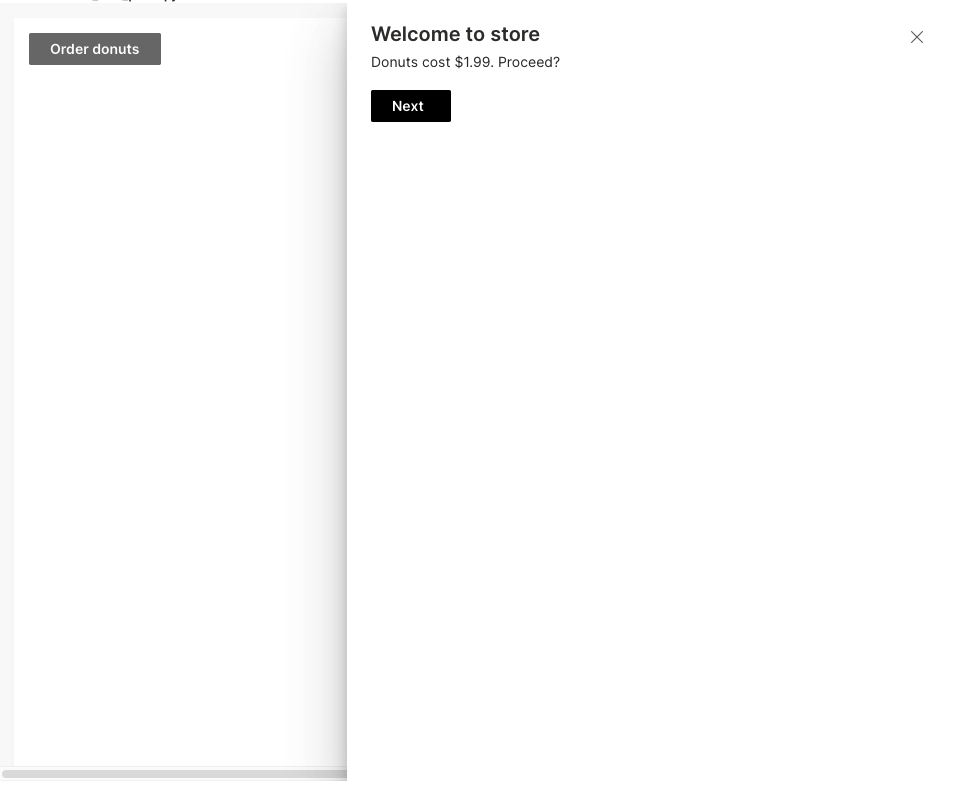
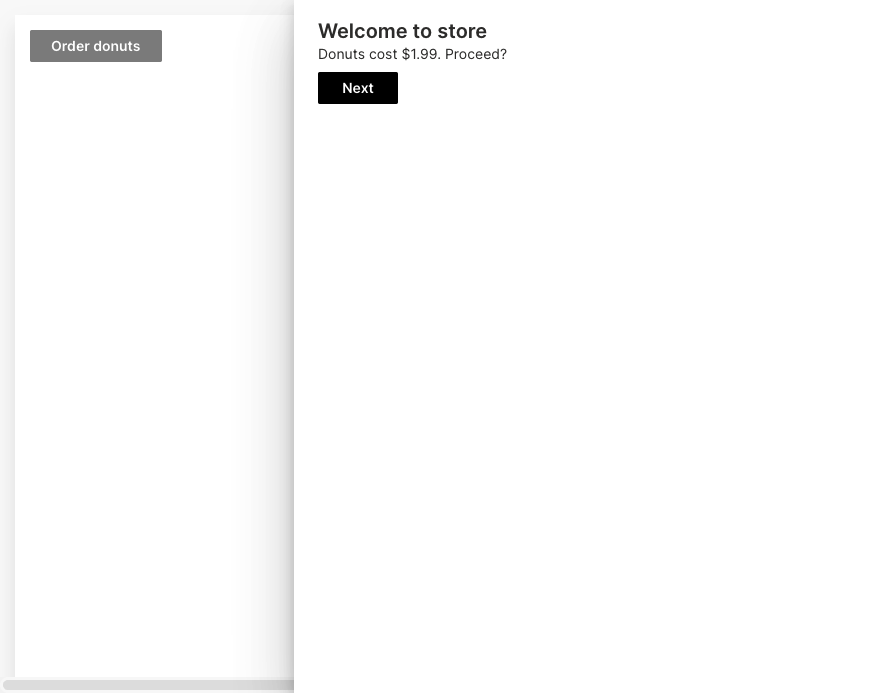
feat: Add closable prop to side panel (#1315)

Changed region(s): [[0.0, 0.0303, 0.604, 1.0], [0.0302, 0.0303, 0.1812, 0.0909]]

diff --git a/ui/src/side_panel.tsx b/ui/src/side_panel.tsx
@@ -34,24 +34,26 @@ export interface SidePanel {
   width?: S
   /** An identifying name for this component. */
   name?: Id
-  /** The events to capture on this side panel. */
+  /** The events to capture on this side panel. One of 'dismissed'. */
   events?: S[]
   /** True to prevent closing when clicking or tapping outside the side panel. Prevents interacting with the page behind the side panel. Defaults to False. */
   blocking?: B
+  /** True if the side panel should have a closing 'X' button at the top right corner. */
+  closable?: B
 }
 
 export default bond(() => {
   const
     onDismiss = () => {
       const
-        { blocking, name, events } = sidePanelB() || {},
+        { name, events } = sidePanelB() || {},
         ev = events?.find(e => e === 'dismissed')
 
-      if (!blocking && ev && name) wave.emit(name, ev, true)
+      if (ev && name) wave.emit(name, ev, true)
       sidePanelB(null)
     },
     render = () => {
-      const { title, width = '600px', items = [], blocking = false } = sidePanelB() || {}
+      const { title, width = '600px', items = [], closable = false, blocking = false } = sidePanelB() || {}
       return (
         <Fluent.Panel
           isOpen={!!sidePanelB()}
@@ -59,6 +61,7 @@ export default bond(() => {
           type={Fluent.PanelType.custom}
           customWidth={width}
           onDismiss={onDismiss}
+          hasCloseButton={closable}
           overlayProps={blocking ? { style: { cursor: 'default' } } : undefined}
           isBlocking
           isLightDismiss={!blocking}>

diff --git a/ui/src/side_panel.test.tsx b/ui/src/side_panel.test.tsx
@@ -42,19 +42,26 @@ describe('SidePanel.tsx', () => {
     await waitFor(() => expect(queryByRole('dialog')).not.toBeInTheDocument())
   })
 
+  it('should not render X closing button', () => {
+    const { container } = render(<SidePanel />)
+    expect(container.parentElement?.querySelector('.ms-Panel-closeButton')).not.toBeInTheDocument()
+  })
+
   it('should render X closing button when specified', () => {
+    sidePanelB({ ...sidePanelProps, closable: true })
     const { container } = render(<SidePanel />)
     expect(container.parentElement?.querySelector('.ms-Panel-closeButton')).toBeInTheDocument()
   })
 
   it('should close side panel when clicking on X', async () => {
+    sidePanelB({ ...sidePanelProps, closable: true })
     const { container, queryByRole } = render(<SidePanel />)
     fireEvent.click(container.parentElement?.querySelector('.ms-Panel-closeButton') as HTMLDivElement)
     await waitFor(() => expect(queryByRole('dialog')).not.toBeInTheDocument())
   })
 
   it('should fire event if specified when clicking on X', () => {
-    sidePanelB({ ...sidePanelProps, events: ['dismissed'] })
+    sidePanelB({ ...sidePanelProps, closable: true, events: ['dismissed'] })
     const { container } = render(<SidePanel />)
     fireEvent.click(container.parentElement?.querySelector('.ms-Panel-closeButton') as HTMLDivElement)
     expect(emitMock).toHaveBeenCalled()

diff --git a/ui/src/dialog.tsx b/ui/src/dialog.tsx
@@ -40,15 +40,15 @@ export interface Dialog {
   primary?: B
   /** An identifying name for this component. */
   name?: Id
-  /** The events to capture on this dialog. */
+  /** The events to capture on this dialog. One of 'dismissed'. */
   events?: S[]
 }
 
 export default bond(() => {
   const
     onDismiss = () => {
-      const { closable, blocking, name, events } = dialogB() || {}
-      if ((closable || !blocking) && name) {
+      const { name, events } = dialogB() || {}
+      if (name) {
         events?.forEach(e => {
           if (e === 'dismissed') wave.emit(name, e, true)
         })

diff --git a/py/h2o_wave/types.py b/py/h2o_wave/types.py
@@ -8871,7 +8871,7 @@ class Dialog:
         self.name = name
         """An identifying name for this component."""
         self.events = events
-        """The events to capture on this dialog."""
+        """The events to capture on this dialog. One of 'dismissed'."""
 
     def dump(self) -> Dict:
         """Returns the contents of this object as a dict."""
@@ -8946,6 +8946,7 @@ class SidePanel:
             name: Optional[str] = None,
             events: Optional[List[str]] = None,
             blocking: Optional[bool] = None,
+            closable: Optional[bool] = None,
     ):
         _guard_scalar('SidePanel.title', title, (str,), False, False, False)
         _guard_vector('SidePanel.items', items, (Component,), False, False, False)
@@ -8953,6 +8954,7 @@ class SidePanel:
         _guard_scalar('SidePanel.name', name, (str,), True, True, False)
         _guard_vector('SidePanel.events', events, (str,), False, True, False)
         _guard_scalar('SidePanel.blocking', blocking, (bool,), False, True, False)
+        _guard_scalar('SidePanel.closable', closable, (bool,), False, True, False)
         self.title = title
         """The side panel's title."""
         self.items = items
@@ -8962,9 +8964,11 @@ class SidePanel:
         self.name = name
         """An identifying name for this component."""
         self.events = events
-        """The events to capture on this side panel."""
+        """The events to capture on this side panel. One of 'dismissed'."""
         self.blocking = blocking
         """True to prevent closing when clicking or tapping outside the side panel. Prevents interacting with the page behind the side panel. Defaults to False."""
+        self.closable = closable
+        """True if the side panel should have a closing 'X' button at the top right corner."""
 
     def dump(self) -> Dict:
         """Returns the contents of this object as a dict."""
@@ -8974,6 +8978,7 @@ class SidePanel:
         _guard_scalar('SidePanel.name', self.name, (str,), True, True, False)
         _guard_vector('SidePanel.events', self.events, (str,), False, True, False)
         _guard_scalar('SidePanel.blocking', self.blocking, (bool,), False, True, False)
+        _guard_scalar('SidePanel.closable', self.closable, (bool,), False, True, False)
         return _dump(
             title=self.title,
             items=[__e.dump() for __e in self.items],
@@ -8981,6 +8986,7 @@ class SidePanel:
             name=self.name,
             events=self.events,
             blocking=self.blocking,
+            closable=self.closable,
         )
 
     @staticmethod
@@ -8998,12 +9004,15 @@ class SidePanel:
         _guard_vector('SidePanel.events', __d_events, (str,), False, True, False)
         __d_blocking: Any = __d.get('blocking')
         _guard_scalar('SidePanel.blocking', __d_blocking, (bool,), False, True, False)
+        __d_closable: Any = __d.get('closable')
+        _guard_scalar('SidePanel.closable', __d_closable, (bool,), False, True, False)
         title: str = __d_title
         items: List[Component] = [Component.load(__e) for __e in __d_items]
         width: Optional[str] = __d_width
         name: Optional[str] = __d_name
         events: Optional[List[str]] = __d_events
         blocking: Optional[bool] = __d_blocking
+        closable: Optional[bool] = __d_closable
         return SidePanel(
             title,
             items,
@@ -9011,6 +9020,7 @@ class SidePanel:
             name,
             events,
             blocking,
+            closable,
         )
 
 

diff --git a/py/h2o_wave/ui.py b/py/h2o_wave/ui.py
@@ -3138,7 +3138,7 @@ def dialog(
         blocking: True to prevent closing when clicking or tapping outside the dialog. Prevents interacting with the page behind the dialog. Defaults to False.
         primary: Dialog with large header banner, mutually exclusive with `closable` prop. Defaults to False.
         name: An identifying name for this component.
-        events: The events to capture on this dialog.
+        events: The events to capture on this dialog. One of 'dismissed'.
     Returns:
         A `h2o_wave.types.Dialog` instance.
     """
@@ -3161,6 +3161,7 @@ def side_panel(
         name: Optional[str] = None,
         events: Optional[List[str]] = None,
         blocking: Optional[bool] = None,
+        closable: Optional[bool] = None,
 ) -> SidePanel:
     """A dialog box (Dialog) is a temporary pop-up that takes focus from the page or app
     and requires people to interact with it. It’s primarily used for confirming actions,
@@ -3171,8 +3172,9 @@ def side_panel(
         items: The components displayed in this side panel.
         width: The width of the dialog, e.g. '400px'. Defaults to '600px'.
         name: An identifying name for this component.
-        events: The events to capture on this side panel.
+        events: The events to capture on this side panel. One of 'dismissed'.
         blocking: True to prevent closing when clicking or tapping outside the side panel. Prevents interacting with the page behind the side panel. Defaults to False.
+        closable: True if the side panel should have a closing 'X' button at the top right corner.
     Returns:
         A `h2o_wave.types.SidePanel` instance.
     """
@@ -3183,6 +3185,7 @@ def side_panel(
         name,
         events,
         blocking,
+        closable,
     )
 
 

diff --git a/py/examples/meta_side_panel_closable.py b/py/examples/meta_side_panel_closable.py
@@ -1,0 +1,41 @@
+# Meta / SidePanel / Closable
+# Display a #sidePanel having a close button, and detect when it's closed. #meta
+# ---
+from h2o_wave import main, app, Q, ui
+
+
+@app('/demo')
+async def serve(q: Q):
+    if not q.client.initialized:
+        # Create an empty meta_card to hold the side panel
+        q.page['meta'] = ui.meta_card(box='')
+        # Display a button to show the side panel
+        q.page['example'] = ui.form_card(box='1 1 11 10', items=[
+            ui.button(name='show_side_panel', label='Open side panel', primary=True)
+        ])
+        q.client.initialized = True
+
+    # Was the show_side_panel button clicked?
+    if q.args.show_side_panel:
+        # Create a side panel with a close button
+        q.page['meta'].side_panel = ui.side_panel(
+            title='Hello!',
+            name="my_side_panel",
+            items=[
+                ui.text('Click the X button to close this side panel.')
+            ],
+            # Enable a close button (displayed at the top-right of the side panel)
+            closable=True,
+            # Get notified when the side panel is dismissed.
+            events=['dismissed'],
+        )
+
+    # Did we get events from the side panel?
+    if q.events.my_side_panel:
+        # Was the side panel dismissed?
+        if q.events.my_sidepanel.dismissed:
+            # Delete the side panel
+            q.page['meta'].side_panel = None
+
+    await q.page.save()
+    

diff --git a/py/examples/meta_dialog_closable.py b/py/examples/meta_dialog_closable.py
@@ -9,14 +9,14 @@ async def serve(q: Q):
     if not q.client.initialized:
         # Create an empty meta_card to hold the dialog
         q.page['meta'] = ui.meta_card(box='')
-        # Display a button to launch dialog dialog
+        # Display a button to launch dialog
         q.page['example'] = ui.form_card(box='1 1 2 1', items=[
-            ui.button(name='launch_dialog', label='Launch dialog', primary=True)
+            ui.button(name='show_dialog', label='Open dialog', primary=True)
         ])
         q.client.initialized = True
 
-    # Was the launch_dialog button clicked?
-    if q.args.launch_dialog:
+    # Was the show_dialog button clicked?
+    if q.args.show_dialog:
         # Create a dialog with a close button
         q.page['meta'].dialog = ui.dialog(
             title='Hello!',

diff --git a/website/widgets/overlays/side_panel.md b/website/widgets/overlays/side_panel.md
@@ -24,12 +24,12 @@ if not q.client.initialized:
     q.page['meta'] = ui.meta_card(box='')
     # Render a button that will open the side panel.
     q.page['example'] = ui.form_card(box='1 1 2 1', items=[
-        ui.button(name='show_panel', label='Open side panel', primary=True)
+        ui.button(name='show_side_panel', label='Open side panel', primary=True)
     ])
     q.client.initialized = True
 else:
     # Handle button click and open the side panel.
-    if q.args.show_panel:
+    if q.args.show_side_panel:
         q.page['meta'].side_panel = ui.side_panel(title='Order Donuts', items=[
             ui.text('Donuts cost $1.99. Proceed?'),
             ui.buttons([
@@ -59,16 +59,18 @@ if not q.client.initialized:
     q.page['meta'] = ui.meta_card(box='')
     # Render a button that will open the side panel.
     q.page['example'] = ui.form_card(box='1 1 2 1', items=[
-        ui.button(name='show_panel', label='Order donuts', primary=True)
+        ui.button(name='show_side_panel', label='Order donuts', primary=True)
     ])
     q.client.initialized = True
 else:
     # Handle button click by opening the side panel.
-    if q.args.show_panel:
+    if q.args.show_side_panel:
         q.page['meta'].side_panel = ui.side_panel(
             title='Order Donuts',
             # Name for q.events entry.
-            name='my_panel',
+            name='my_side_panel',
+            # Enable a close button (displayed at the top-right of the side panel).
+            closable=True,
             # Get notified when the side panel is dismissed.
             events=['dismissed'],
             items=[
@@ -78,9 +80,9 @@ else:
         )
 
     # Did we get events from the side panel?
-    if q.events.my_panel:
+    if q.events.my_side_panel:
         # Was the side panel dismissed?
-        if q.events.my_panel.dismissed:
+        if q.events.my_side_panel.dismissed:
             # Close the side panel.
             q.page['meta'].side_panel = None
 ```
